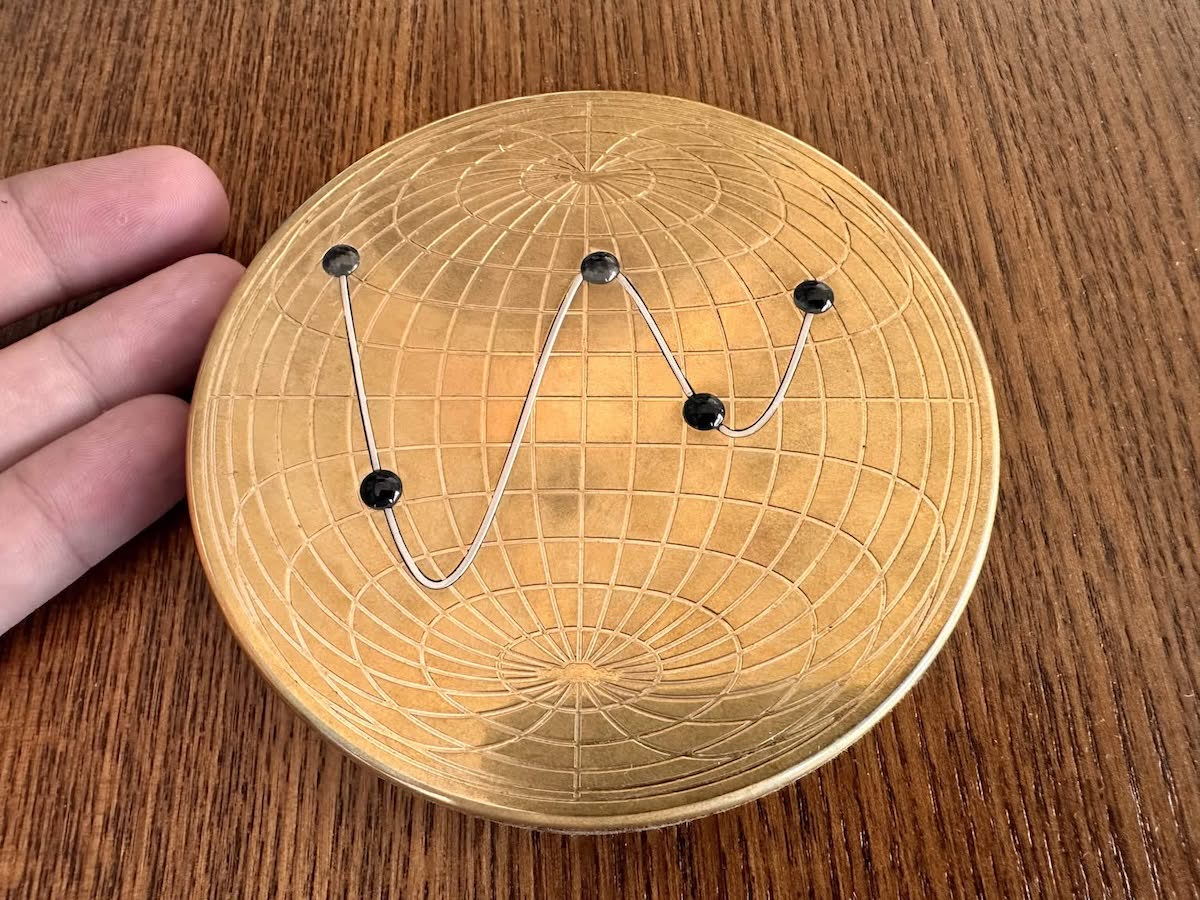
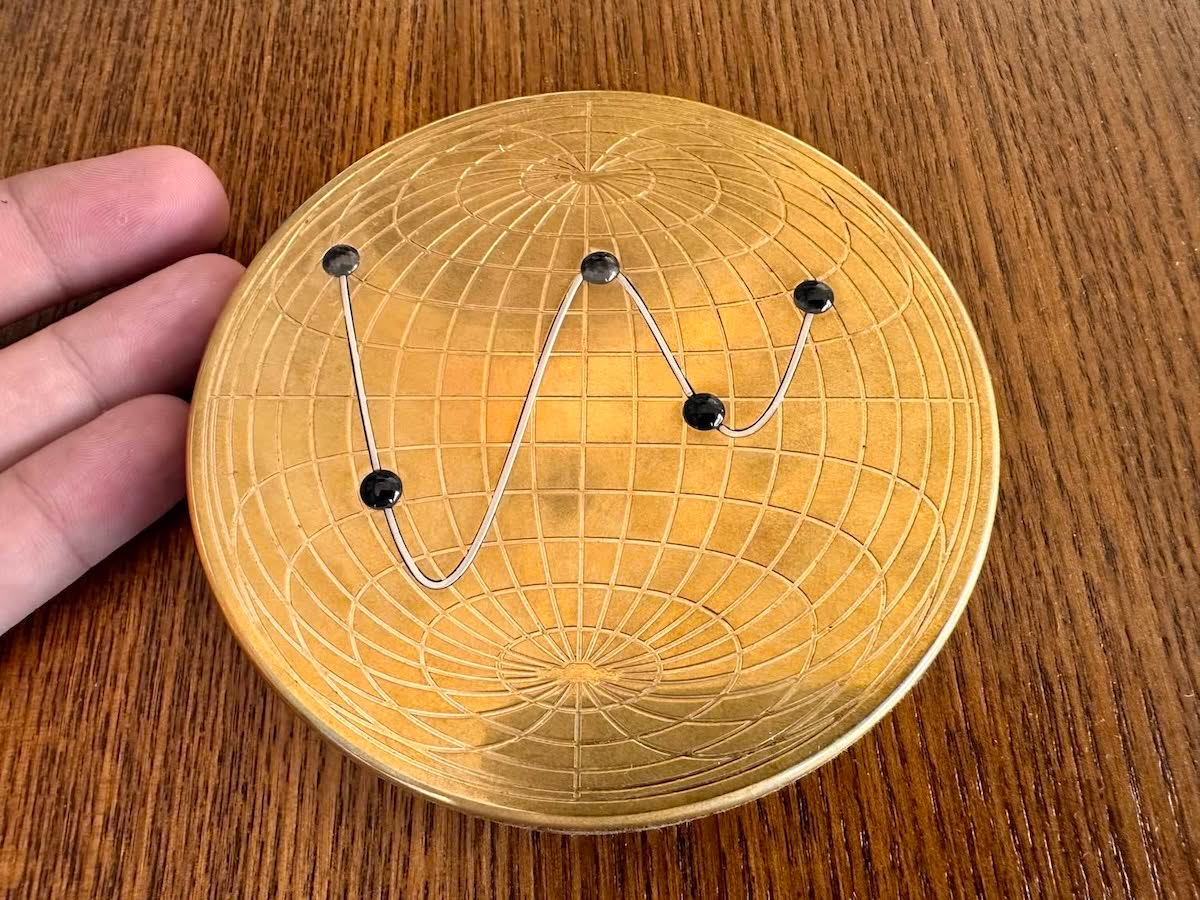
fix: Add header image, colour matching

diff --git a/content/posts/40th-puzzle-box/what-a-gift/index.md b/content/posts/40th-puzzle-box/what-a-gift/index.md
@@ -2,6 +2,9 @@
 title: "What awesomeness is this‽"
 emoji: 🌐
 date: 2025-07-17T15:40:50.740Z
+media:
+  - url: the-puzzle.jpg
+    alt: A circular brass puzzle box, roughly 10cm in diameter. It has what looks like the projection of lines of latitude and longitude on the front surface, and 5 glass covered holes through the middle, spread across an oscillating line of metal set into the middle.
 draft: false
 tags:
   - puzzle
